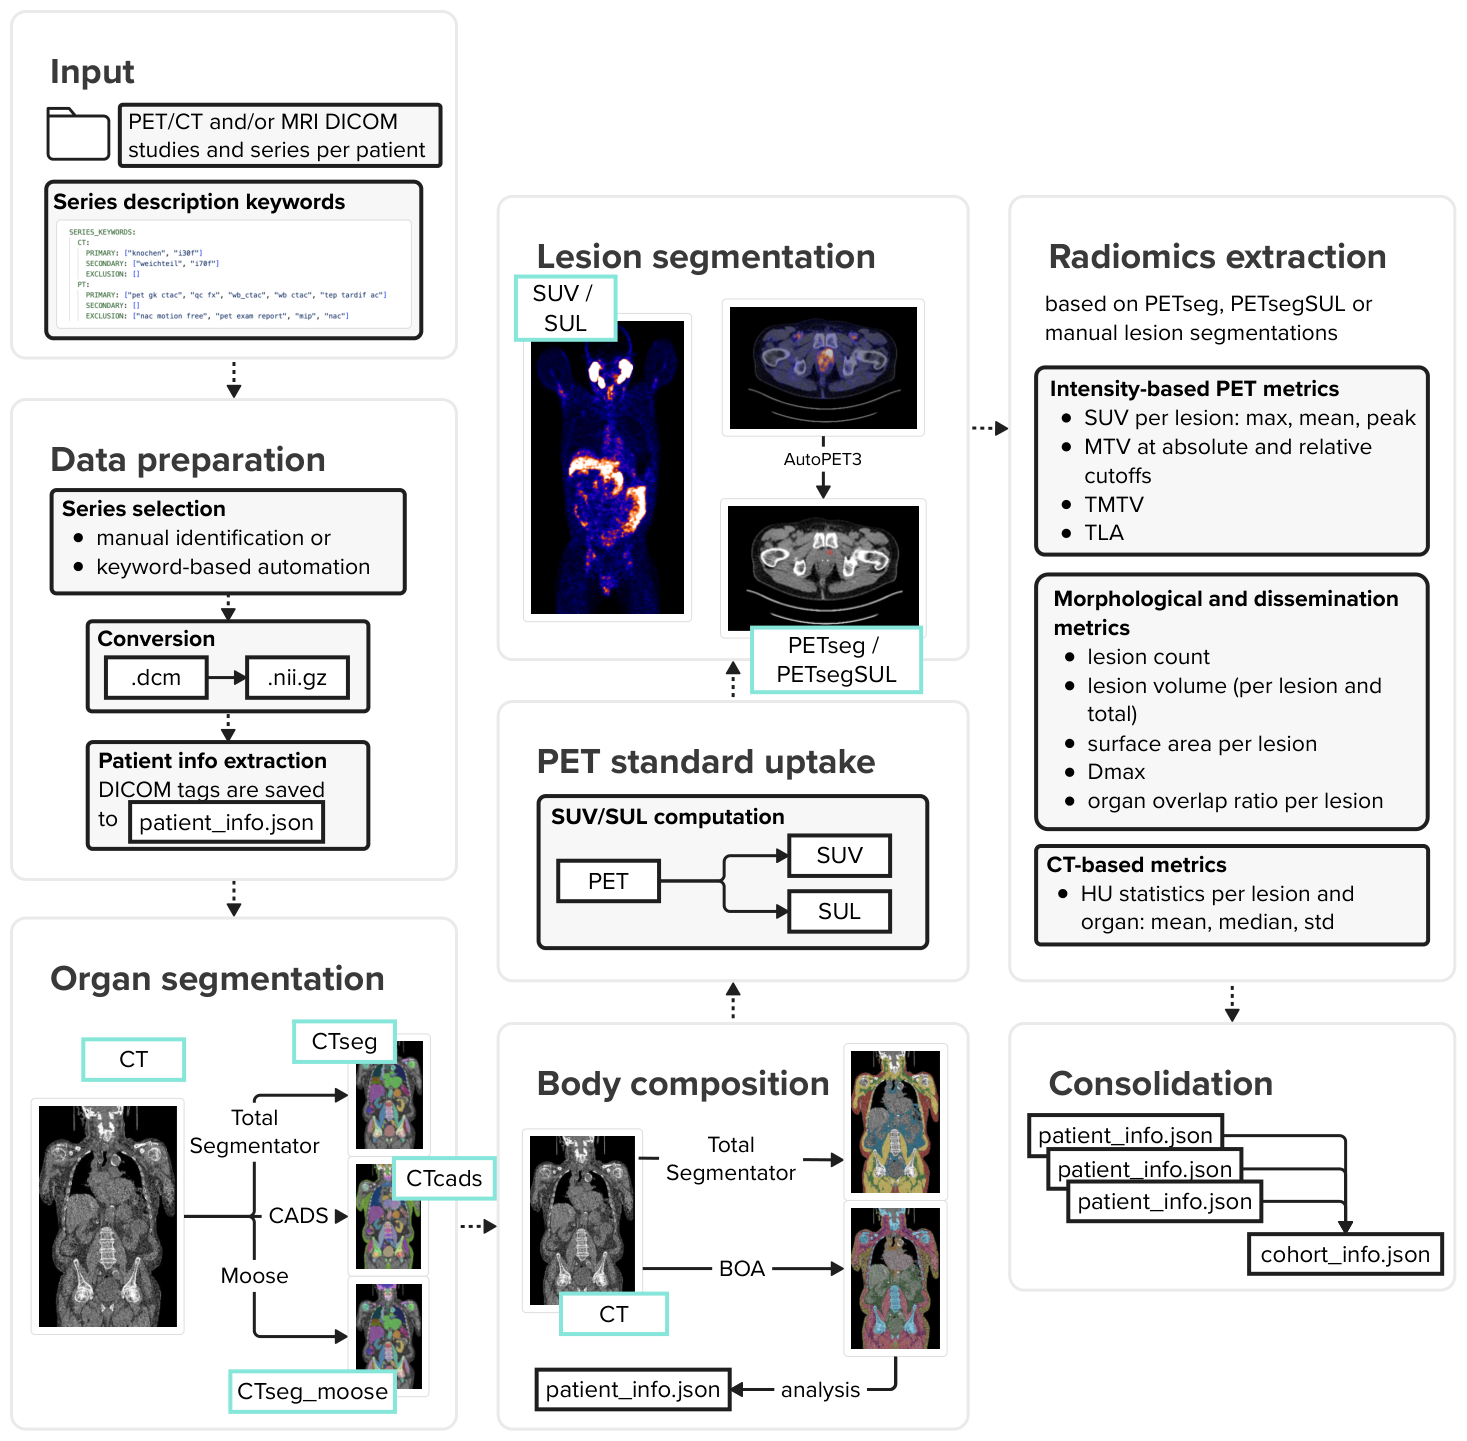
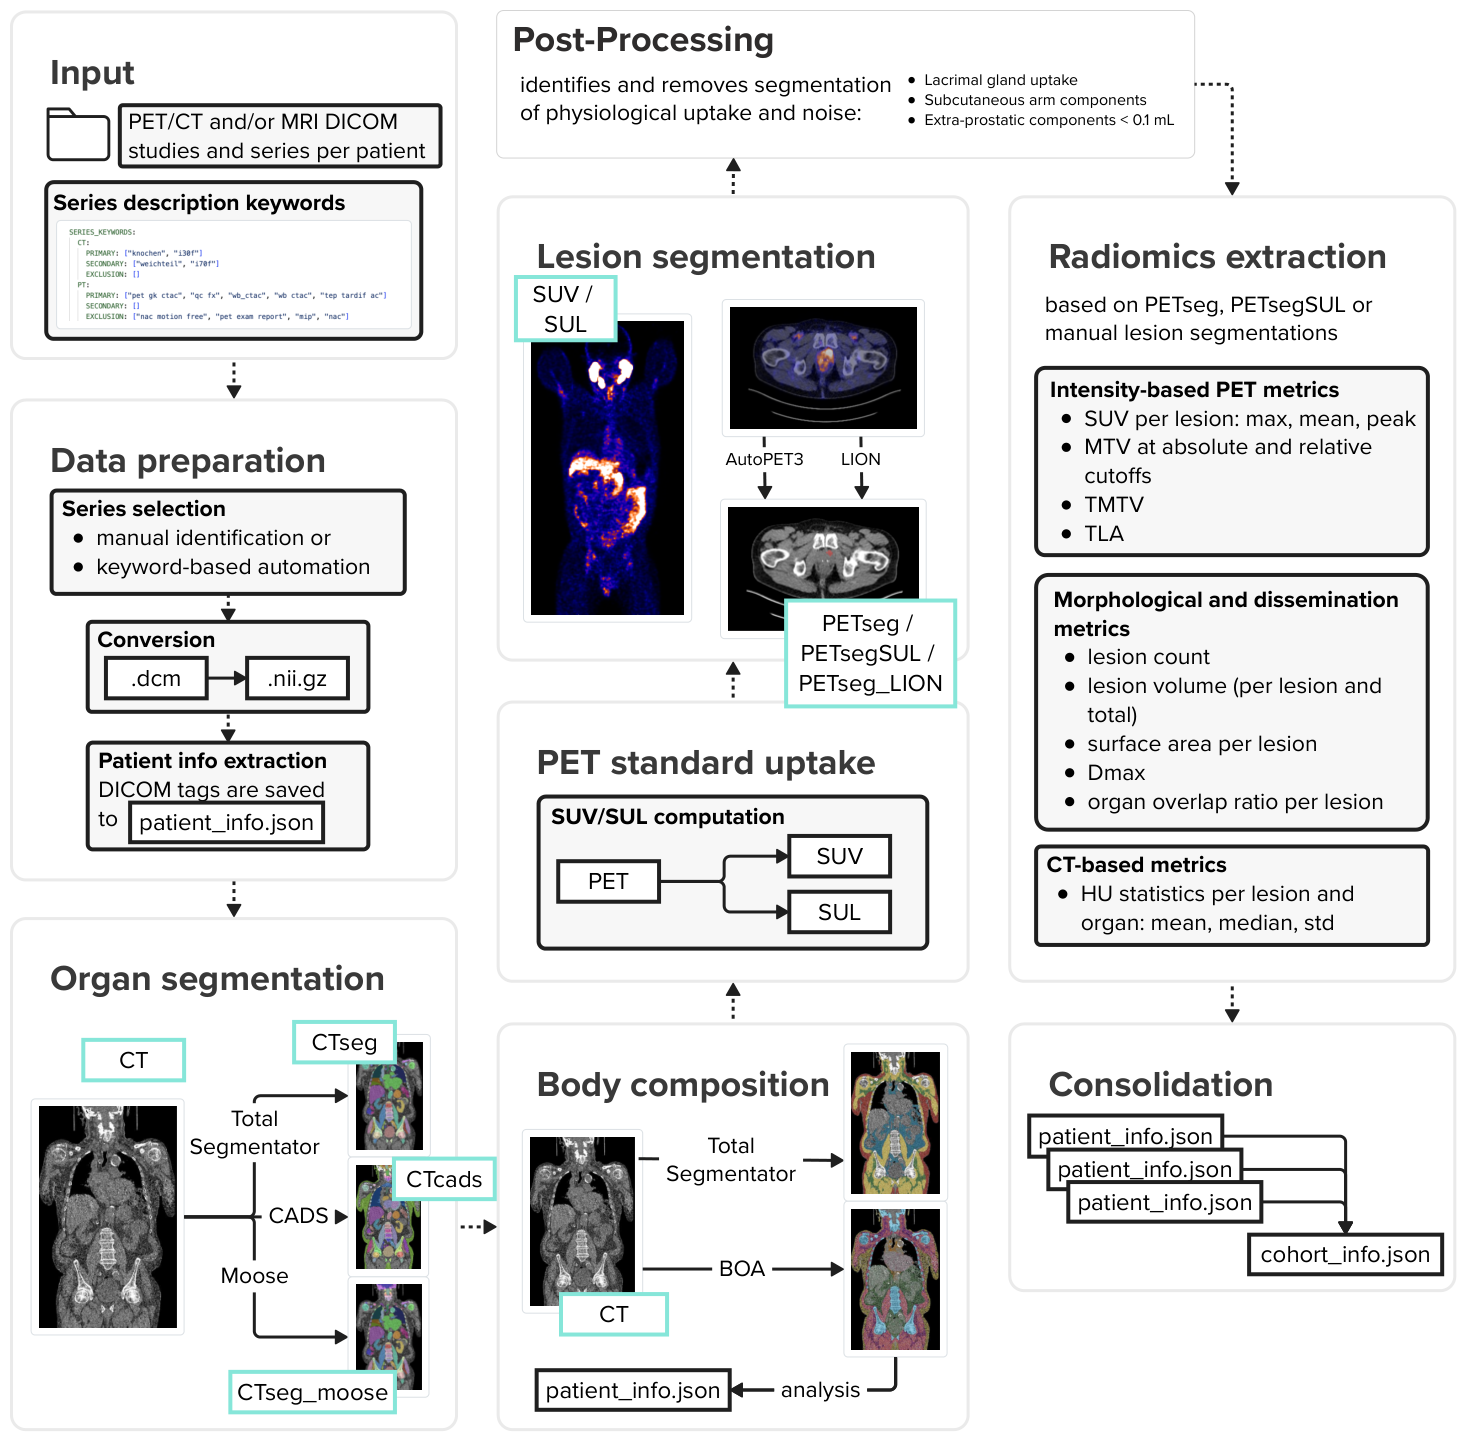
Resolve comments

diff --git a/src/musiq/sul_computation.py b/src/musiq/sul_computation.py
@@ -64,7 +64,7 @@ class SulInference:
         with open(patient_info_path) as f:
             data = json.load(f)
 
-        # selct layer whose fa%t defines: ["whole_FOV", "l3", "glut_to_c6"]
+        # define layer which defines fat %: ["whole_FOV", "l3", "glut_to_c6"]
         lbm = self._patient_lbm(data, study_date, layer="whole_FOV")
         if lbm is None:
             logger.warning(
